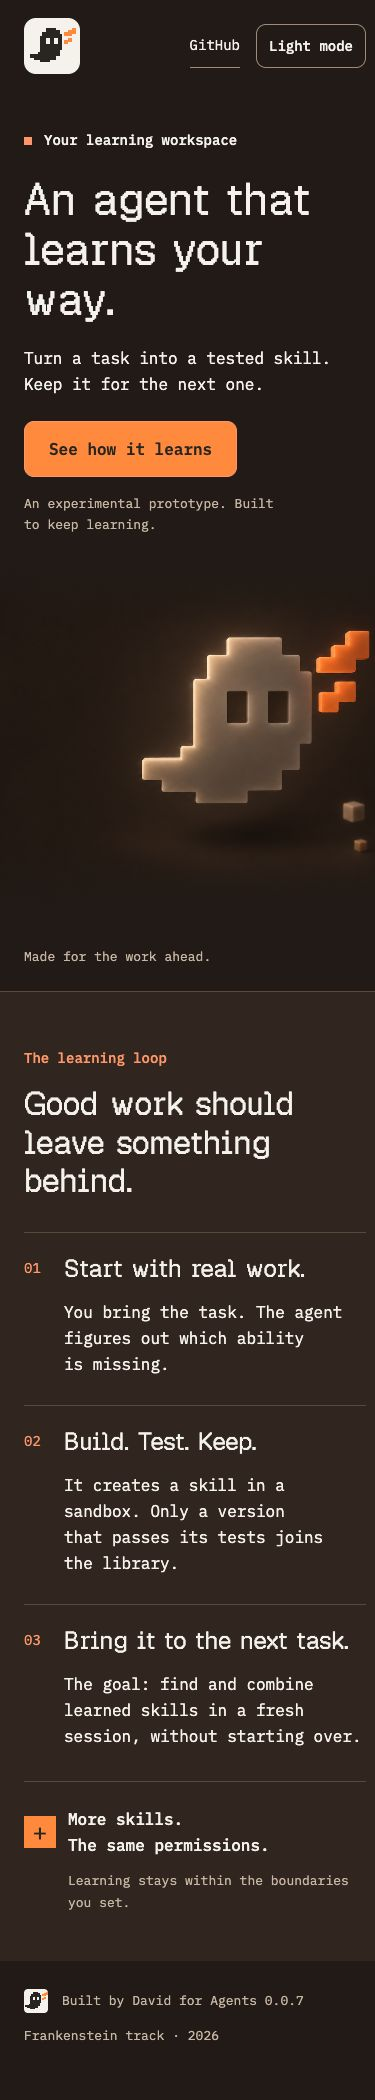
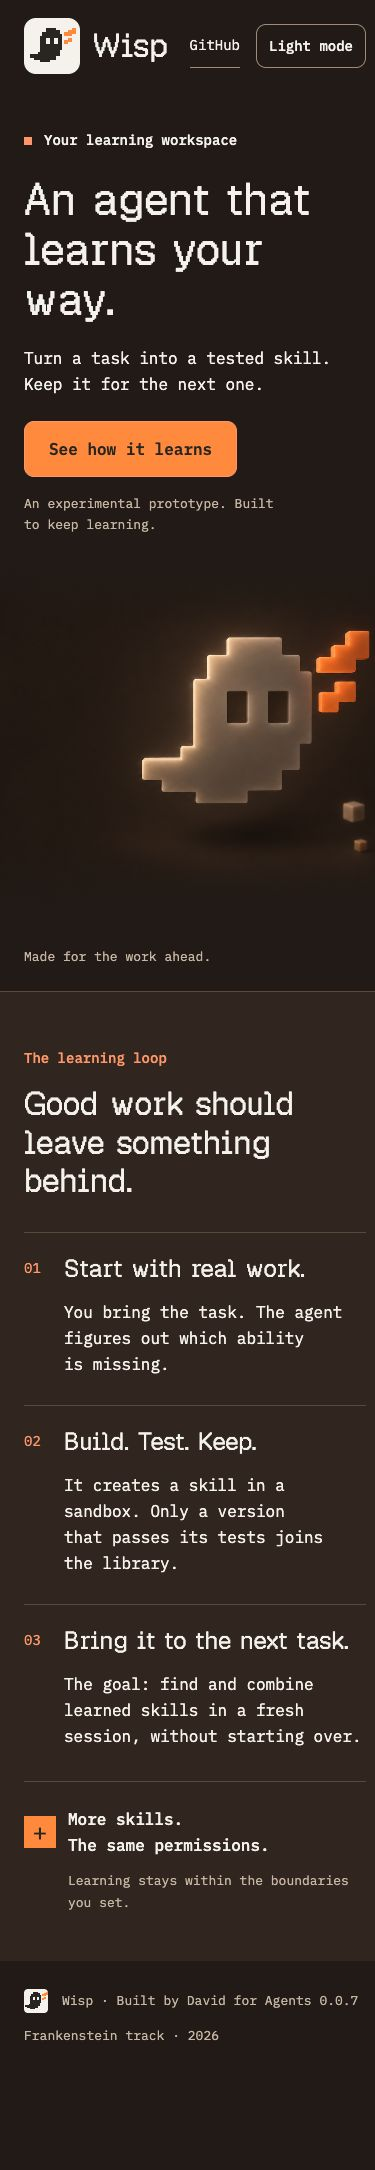
Name the landing page Wisp

diff --git a/landing/index.html b/landing/index.html
@@ -4,8 +4,8 @@
   <meta charset="utf-8">
   <meta name="viewport" content="width=device-width, initial-scale=1">
   <meta name="theme-color" content="#F5F2EC">
-  <title>A workspace that learns from your work</title>
-  <meta name="description" content="An experimental AI workspace that turns tasks and corrections into tested, reusable skills. Built for Agents 0.0.7, Frankenstein track.">
+  <title>Wisp — An agent that learns your way</title>
+  <meta name="description" content="Wisp is an experimental AI workspace that turns tasks and corrections into tested, reusable skills. Built for Agents 0.0.7, Frankenstein track.">
   <link rel="icon" type="image/svg+xml" href="./assets/pixel-ghost.svg">
   <link rel="preload" href="./assets/fonts/GeistPixel-Square.woff2" as="font" type="font/woff2" crossorigin>
   <link rel="stylesheet" href="./assets/tokens.css">
@@ -17,9 +17,9 @@
   <div class="opening">
 
     <header class="site-header wrap">
-      <a class="brand" href="#" aria-label="Learning workspace home">
-        <img src="./assets/pixel-ghost.svg" alt="" width="48" height="48">
-        
+      <a class="brand" href="#" aria-label="Wisp home">
+        <span class="brand-icon"><img src="./assets/pixel-ghost.svg" alt="" width="48" height="48"></span>
+        <span class="brand-name">Wisp</span>
       </a>
       <nav aria-label="Main navigation">
         <a href="#how-it-works">The idea</a>
@@ -74,7 +74,7 @@
       </section>
     </main>
     <footer class="site-footer wrap">
-      <div class="footer-brand"><img src="./assets/pixel-ghost.svg" width="24" height="24" alt=""><span>Built by David for Agents 0.0.7</span></div>
+      <div class="footer-brand"><img src="./assets/pixel-ghost.svg" width="24" height="24" alt=""><span>Wisp · Built by David for Agents 0.0.7</span></div>
       <span>Frankenstein track · 2026</span>
     </footer>
   </div>

diff --git a/landing/style.css b/landing/style.css
@@ -10,7 +10,9 @@ button { font: 500 .875rem/1.5 var(--ds-font-text); cursor: pointer; }
 .wrap { width: min(89%, 1400px); margin-inline: auto; }
 .opening { position: relative; isolation: isolate; }
 .site-header { display: flex; align-items: center; justify-content: space-between; gap: 2rem; min-height: 108px; }
-.brand { display: grid; place-items: center; width: 56px; height: 56px; flex-shrink: 0; border-radius: 12px; background: #F5F2EC; color-scheme: light; }
+.brand { display: inline-flex; align-items: center; gap: .75rem; flex-shrink: 0; text-decoration: none; }
+.brand-name { font: 400 2rem/1.25 var(--ds-font-display); }
+.brand-icon { display: grid; place-items: center; width: 56px; height: 56px; flex-shrink: 0; border-radius: 12px; background: #F5F2EC; color-scheme: light; }
 .brand img { width: 48px; height: 48px; }
 .site-header nav { display: flex; align-items: center; gap: 2rem; font-size: .875rem; }
 .site-header nav a { display: inline-flex; align-items: center; min-height: 44px; text-decoration: none; }
@@ -65,8 +67,8 @@ h3 { font-size: 1.5rem; line-height: 1.333; margin-block: 1.25rem .875rem; }
 }
 @media (max-width: 700px) {
   .wrap { width: calc(100% - 3rem); }
-  .site-header { min-height: 92px; gap: .75rem; }
-  .site-header nav { gap: 1rem; }
+  .site-header { min-height: 92px; gap: .75rem; flex-wrap: wrap; padding-block: 1rem; }
+  .site-header nav { gap: 1rem; margin-left: auto; }
   .site-header nav a:first-child { display: none; }
   #theme-toggle { padding-inline: .75rem; }
   .hero { min-height: 0; padding-block: 38px 70px; }

diff --git a/landing/README.md b/landing/README.md
@@ -1,6 +1,6 @@
-# Learning workspace landing page
+# Wisp landing page
 
-A short English landing page for David's experimental learning workspace. The product name remains open. This page presents the idea and links to the project; it does not run the agent.
+A short English landing page for Wisp, David's experimental learning workspace. David selected the name on October 9, 2026. This page presents the idea and links to the project; it does not run the agent.
 
 ## Design source
 
